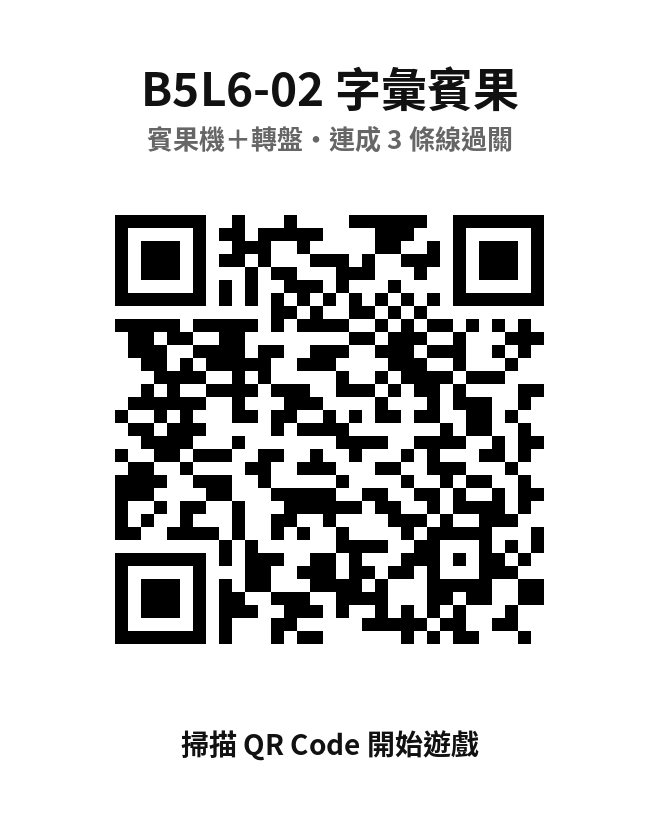
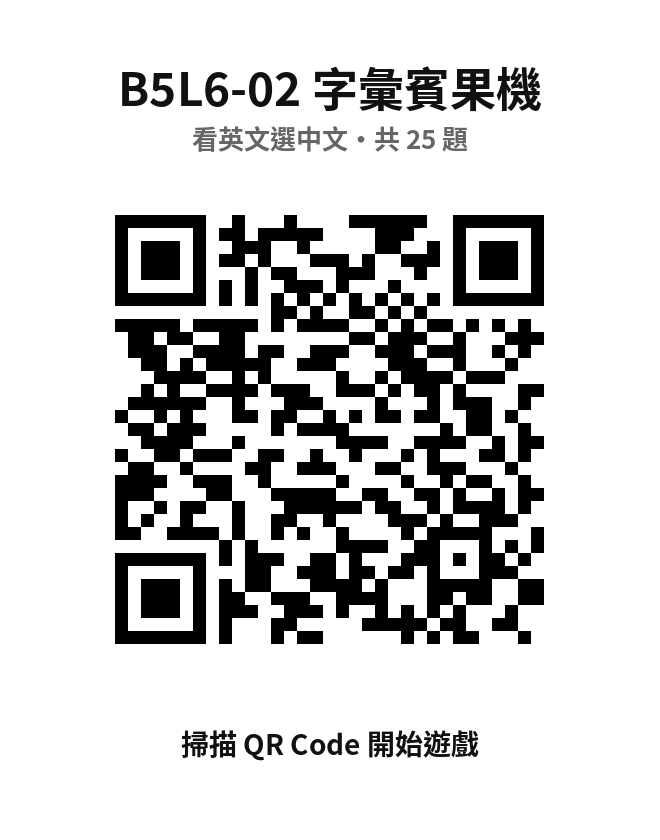
B5L6-02：簡化為賓果機看英文選中文
Claude-Session: https://claude.ai/code/session_01XaaQhcpkzSXjExrTZhcb2g

Changed region(s): [[0.1818, 0.0619, 0.8182, 0.1857]]

diff --git a/B5/L6-02/index.html b/B5/L6-02/index.html
@@ -3,87 +3,61 @@
 <head>
 <meta charset="utf-8">
 <meta name="viewport" content="width=device-width,initial-scale=1,viewport-fit=cover">
-<title>B5L6-02 字彙賓果</title>
+<title>B5L6-02 字彙賓果機</title>
 <link href="https://fonts.googleapis.com/css2?family=Baloo+2:wght@600;800&family=Noto+Sans+TC:wght@500;700;900&display=swap" rel="stylesheet">
 <style>
-/* VOICE: 手機上的快節奏小遊戲，給程度較弱的高三生，答對有成就感
-   IDEA: 夜市轉盤＋賓果卡——題目出現，轉盤轉一圈停下，點答案，答對就在卡上蓋章
-   PICTURE: 四色圓轉盤佔畫面下半，賓果卡在答題後滑上來蓋章
-   COLOUR and TYPE: 米白底、深色字；轉盤藍橘綠紅四色；Baloo 2 英文、Noto Sans TC 中文
-   LAYOUT: 上方狀態列，題目卡，轉盤；答完後底部滑出賓果卡 */
-:root{color-scheme:light;--bg:#F5F3F0;--card:#fff;--ink:#221C26;--mute:#6B6570;--line:#E3DEE0;
---q1:#2B6FE8;--q2:#F07B12;--q3:#1C9A5A;--q4:#D93A6A;--ok:#1C9A5A;--no:#D7191C;--stamp:#D7191C}
+/* VOICE: 給程度較弱、容易不耐煩的高三生：一個畫面、一個動作、馬上知道對錯
+   IDEA: 許老師的賓果機——捲軸轉動後停在一個字上，就考這個字
+   PICTURE: 上半部是大大的賓果機捲軸，下半部是四個大按鈕
+   COLOUR and TYPE: 米白底、深色機台、橘色重點；Baloo 2 英文、Noto Sans TC 中文
+   LAYOUT: 狀態列、賓果機、四個選項，全部在手機一個畫面內 */
+:root{--bg:#F5F3F0;--card:#fff;--ink:#221C26;--mute:#6B6570;--line:#E3DEE0;--hot:#F07B12;--ok:#1C7FE0;--no:#D7191C}
 *{box-sizing:border-box;min-width:0;-webkit-tap-highlight-color:transparent}
-html,body{margin:0;height:100%}
-body{background:var(--bg);color:var(--ink);font:16px/1.5 "Noto Sans TC","Baloo 2",system-ui,sans-serif;overflow-x:hidden;padding:env(safe-area-inset-top) 0 env(safe-area-inset-bottom)}
+html,body{margin:0}
+body{background:var(--bg);color:var(--ink);font:16px/1.5 "Noto Sans TC","Baloo 2",system-ui,sans-serif;padding:env(safe-area-inset-top) 0 env(safe-area-inset-bottom)}
 button{font:inherit;color:inherit;border:0;background:none;cursor:pointer}
-button:focus-visible{outline:3px solid var(--q1);outline-offset:2px}
-.app{max-width:520px;margin:0 auto;min-height:100dvh;display:flex;flex-direction:column;padding:10px 14px 14px}
+button:focus-visible{outline:3px solid var(--ok);outline-offset:2px}
+.app{max-width:520px;margin:0 auto;min-height:100dvh;display:flex;flex-direction:column;padding:10px 14px 16px}
 .top{display:flex;align-items:center;gap:8px}
 .top h1{margin:0;font:900 17px/1.2 "Noto Sans TC",sans-serif;margin-inline-end:auto}
 .top h1 small{display:block;font:500 11px "Noto Sans TC",sans-serif;color:var(--mute)}
-.pill{font:800 15px "Noto Sans TC",sans-serif;background:var(--ink);color:#fff;border-radius:999px;padding:6px 12px;white-space:nowrap}
-.cardbtn{white-space:nowrap;min-height:40px;padding:0 12px;border-radius:999px;border:2px solid var(--line);background:var(--card);font:700 14px "Noto Sans TC",sans-serif}
-.reel{position:relative;margin-top:10px;height:84px;border-radius:18px;background:var(--ink);padding:8px;box-shadow:0 4px 0 #000}
-.reel .win{position:relative;height:100%;border-radius:12px;background:#FFF8E6;overflow:hidden}
-.reel .win::before,.reel .win::after{content:"";position:absolute;left:0;right:0;height:16px;z-index:2;pointer-events:none}
-.reel .win::before{top:0;background:linear-gradient(#0005,transparent)}.reel .win::after{bottom:0;background:linear-gradient(transparent,#0005)}
+.pill{font:800 15px "Noto Sans TC",sans-serif;background:var(--card);border:2px solid var(--line);border-radius:999px;padding:4px 12px;white-space:nowrap}
+.combo{background:var(--hot);border-color:var(--hot);color:#fff}
+.bar{height:8px;border-radius:4px;background:var(--line);margin-top:10px;overflow:hidden}
+.bar i{display:block;height:100%;background:var(--hot);width:0;transition:width .3s}
+/* 賓果機 */
+.machine{margin-top:12px;background:var(--ink);border-radius:26px;padding:14px 14px 12px;box-shadow:0 6px 0 #000}
+.machine .label{display:flex;justify-content:space-between;color:#fff;font:800 14px "Noto Sans TC",sans-serif;margin:0 4px 8px}
+.machine .label b{color:var(--hot)}
+.win{position:relative;height:clamp(110px,22vh,150px);border-radius:16px;background:#FFF8E6;overflow:hidden}
+.win::before,.win::after{content:"";position:absolute;left:0;right:0;height:26px;z-index:2;pointer-events:none}
+.win::before{top:0;background:linear-gradient(#0006,transparent)}.win::after{bottom:0;background:linear-gradient(transparent,#0006)}
 .strip{position:absolute;left:0;right:0;top:0}
-.strip div{height:68px;display:grid;place-items:center;padding:0 10px;text-align:center;font:900 clamp(22px,7vw,30px)/1.1 "Noto Sans TC",sans-serif;color:var(--ink)}
-.reel .tag{position:absolute;left:14px;top:-9px;z-index:3;background:var(--q2);color:#fff;font:800 12px "Noto Sans TC",sans-serif;border-radius:999px;padding:1px 10px}
-.reel .arrow{position:absolute;top:50%;width:0;height:0;border:10px solid transparent;transform:translateY(-50%);z-index:3}
-.reel .al{left:-2px;border-left-color:var(--q2)}.reel .ar{right:-2px;border-right-color:var(--q2)}
-.q{margin-top:8px;background:var(--card);border-radius:16px;padding:10px 14px;box-shadow:0 3px 0 var(--line);display:flex;flex-direction:column;justify-content:center}
-.q .kind{font:700 13px "Noto Sans TC",sans-serif;color:var(--q1)}
-.q .text{margin:4px 0 0;font:800 clamp(18px,5vw,22px)/1.35 "Baloo 2","Noto Sans TC",sans-serif}
-.q .text.zhq{font:900 clamp(26px,8vw,34px)/1.2 "Noto Sans TC",sans-serif}
-.gap{display:inline-block;min-width:3em;border-bottom:4px solid var(--q2);color:var(--q2)}
-.wheelwrap{flex:1;display:grid;place-items:center;padding:12px 0 4px}
-.wheel{position:relative;width:min(92vw,calc(100dvh - 300px),420px);aspect-ratio:1}
-.spin{position:absolute;inset:0}
-.spin.go{animation:spin .8s cubic-bezier(.2,.8,.25,1)}
-@keyframes spin{from{transform:rotate(-540deg)}to{transform:rotate(0)}}
-.spin svg{width:100%;height:100%;display:block;filter:drop-shadow(0 6px 0 rgba(0,0,0,.12))}
-.seg{hyphens:none;word-break:keep-all;position:absolute;width:50%;height:50%;display:flex;align-items:center;justify-content:center;padding:14% 8% 14% 8%;text-align:center;color:#fff;font:800 clamp(14px,4.3vw,19px)/1.15 "Baloo 2","Noto Sans TC",sans-serif;overflow-wrap:break-word}
-.seg span{display:block;max-width:100%}
-.seg b{display:block;font:800 12px "Baloo 2",sans-serif;opacity:.85;margin-bottom:2px}
-.s0{left:0;top:0;padding-left:16%;padding-top:20%}.s1{right:0;top:0;padding-right:16%;padding-top:20%}
-.s2{left:0;bottom:0;padding-left:16%;padding-bottom:20%}.s3{right:0;bottom:0;padding-right:16%;padding-bottom:20%}
-.hit{position:absolute;inset:0;border-radius:50%;overflow:hidden}
-.hit button{position:absolute;width:50%;height:50%}
-.hit .h0{left:0;top:0}.hit .h1{right:0;top:0}.hit .h2{left:0;bottom:0}.hit .h3{right:0;bottom:0}
-.hub{position:absolute;left:50%;top:50%;width:24%;aspect-ratio:1;transform:translate(-50%,-50%);border-radius:50%;background:var(--card);border:5px solid var(--ink);display:grid;place-items:center;font:800 clamp(18px,5vw,24px) "Baloo 2",sans-serif;pointer-events:none}
-.mark{position:absolute;font:900 54px/1 "Noto Sans TC",sans-serif;color:#fff;text-shadow:0 2px 0 rgba(0,0,0,.3);pointer-events:none}
-.dim{opacity:.35}
-/* 賓果卡抽屜 */
-.sheet{position:fixed;left:0;right:0;bottom:0;z-index:5;transform:translateY(105%);transition:transform .3s ease}
-.sheet.open{transform:none}
-.sheet .in{max-width:520px;margin:0 auto;background:var(--card);border-radius:24px 24px 0 0;box-shadow:0 -8px 30px rgba(0,0,0,.18);padding:12px 12px calc(14px + env(safe-area-inset-bottom))}
-.res{font:900 18px/1.35 "Noto Sans TC",sans-serif;margin:2px 4px 10px}
-.res.ok{color:var(--ok)}.res.no{color:var(--no)}
-.res small{display:block;font:500 14px "Noto Sans TC",sans-serif;color:var(--mute)}
-.board{display:grid;grid-template-columns:repeat(5,minmax(0,1fr));gap:4px}
-.cell{position:relative;aspect-ratio:1;border-radius:10px;background:var(--bg);border:2px solid var(--line);display:grid;place-items:center;padding:2px;text-align:center;font:800 clamp(9px,2.8vw,13px)/1.1 "Baloo 2",sans-serif;overflow-wrap:break-word;overflow:hidden}
-.cell.ph{font-size:clamp(8px,2.4vw,11px)}
-.cell span{position:relative;z-index:1}
-.cell.long{font-size:clamp(8px,2.3vw,11px)}
-.cell.on{color:#8A0F12;background:#FDE2E2;border-color:var(--stamp)}
-.cell.on::after{content:"✓";position:absolute;right:3px;top:1px;font:900 13px/1 "Noto Sans TC",sans-serif;color:var(--stamp)}
-.cell.new::after{animation:stamp .45s cubic-bezier(.3,1.6,.5,1)}
-@keyframes stamp{from{transform:scale(2.2) rotate(-20deg);opacity:0}}
-.cell.line{background:#FFF1C2;border-color:#E9B93A}
-.close{display:block;margin:10px auto 0;min-height:44px;padding:0 20px;border-radius:22px;background:var(--ink);color:#fff;font:700 15px "Noto Sans TC",sans-serif}
-.bingo{position:fixed;inset:0;z-index:8;display:grid;place-items:center;pointer-events:none}
-.bingo p{margin:0;font:800 clamp(56px,18vw,96px)/1 "Baloo 2",sans-serif;color:var(--q2);text-shadow:0 5px 0 var(--ink);animation:pop 1.1s ease both}
-@keyframes pop{0%{transform:scale(.3);opacity:0}25%{transform:scale(1.15);opacity:1}80%{opacity:1}100%{transform:scale(1);opacity:0}}
-/* 開始與結果 */
-.start{position:fixed;inset:0;z-index:9;background:rgba(245,243,240,.96);display:grid;place-items:center;padding:24px;text-align:center}
-.start h2{margin:0;font:900 clamp(30px,9vw,42px)/1.15 "Noto Sans TC",sans-serif}
-.start p{margin:10px 0 0;font:500 16px/1.6 "Noto Sans TC",sans-serif;color:var(--mute)}
-.start button{margin-top:22px;min-height:60px;padding:0 36px;border-radius:30px;background:var(--q2);color:#fff;font:900 22px "Noto Sans TC",sans-serif;box-shadow:0 5px 0 #B65A08}
+.strip div{display:grid;place-items:center;padding:0 12px;text-align:center;font:800 clamp(34px,11vw,52px)/1.05 "Baloo 2",sans-serif;color:var(--ink)}
+.strip div.ph{font-size:clamp(26px,8vw,40px)}
+.machine .hint{margin:8px 4px 0;color:#D9D2DC;font:700 14px "Noto Sans TC",sans-serif;text-align:center;min-height:21px}
+/* 選項 */
+.opts{display:grid;grid-template-columns:repeat(2,minmax(0,1fr));gap:10px;margin-top:12px}
+.opt{position:relative;min-height:clamp(70px,12vh,96px);border-radius:18px;background:var(--card);border:3px solid var(--line);padding:8px 10px;font:900 clamp(19px,5.6vw,24px)/1.25 "Noto Sans TC",sans-serif;text-align:center;box-shadow:0 4px 0 var(--line)}
+.opt{opacity:0;transform:translateY(10px);transition:opacity .2s,transform .2s}
+.opt.in{opacity:1;transform:none}
+.opt:active{transform:translateY(2px);box-shadow:0 2px 0 var(--line)}
+.opt:disabled{cursor:default}
+.opt.ok{border-color:var(--ok);background:#E3EEFF;color:#0D4FA8}
+.opt.no{border-color:var(--no);background:#FFE4E4;color:#9B1C1F}
+.opt.in.fade{opacity:.35}
+.opt .m{position:absolute;right:8px;top:4px;font:900 22px/1 "Noto Sans TC",sans-serif}
+.fb{margin:12px 2px 0;min-height:48px;font:800 17px/1.45 "Noto Sans TC",sans-serif;text-align:center}
+.fb.ok{color:var(--ok)}.fb.no{color:var(--no)}
+.fb small{display:block;font:500 14px "Noto Sans TC",sans-serif;color:var(--mute)}
+/* 開始與證書 */
+.start{position:fixed;inset:0;z-index:9;background:rgba(245,243,240,.97);display:grid;place-items:center;padding:24px;text-align:center}
+.start h2{margin:0;font:900 clamp(32px,10vw,44px)/1.15 "Noto Sans TC",sans-serif}
+.start p{margin:12px 0 0;font:500 17px/1.7 "Noto Sans TC",sans-serif;color:var(--mute)}
+.start button{margin-top:24px;min-height:64px;padding:0 40px;border-radius:32px;background:var(--hot);color:#fff;font:900 24px "Noto Sans TC",sans-serif;box-shadow:0 5px 0 #B65A08}
 .result{display:none;padding-top:10px}
 .result h2{margin:0 0 10px;font:900 28px "Noto Sans TC",sans-serif}
-.cert{background:#fff;border:3px solid #B8860B;outline:1px solid #B8860B;outline-offset:-9px;border-radius:6px;padding:22px 16px 18px;text-align:center;font-family:"Noto Sans TC",serif}
+.cert{background:#fff;border:3px solid #B8860B;outline:1px solid #B8860B;outline-offset:-9px;border-radius:6px;padding:22px 16px 18px;text-align:center}
 .cert .ct{margin:0;font:900 30px/1.2 "Noto Sans TC",sans-serif;color:#8A6200;letter-spacing:.08em}
 .cert .ce{margin:2px 0 12px;font:700 13px "Baloo 2",sans-serif;color:#8A6200}
 .cert .cb{margin:0;font:700 16px/2 "Noto Sans TC",sans-serif}
@@ -102,123 +76,84 @@ button:focus-visible{outline:3px solid var(--q1);outline-offset:2px}
 </style>
 </head>
 <body>
-<div class="app" id="app">
+<div class="app">
   <header class="top">
-    <h1>字彙賓果<small>B5L6-02｜第五冊 Lesson 6</small></h1>
-    <span class="pill" id="lines">BINGO 0/3</span>
-    <button class="cardbtn" id="showcard">賓果卡</button>
+    <h1>字彙賓果機<small>B5L6-02｜第五冊 Lesson 6</small></h1>
+    <span class="pill" id="count">1 / 25</span>
+    <span class="pill combo" id="combo" hidden></span>
   </header>
+  <div class="bar"><i id="prog"></i></div>
   <main id="play">
-    <div class="reel"><span class="tag">賓果機</span><span class="arrow al"></span><span class="arrow ar"></span><div class="win"><div class="strip" id="strip"></div></div></div>
-    <section class="q" aria-live="polite"><span class="kind" id="kind"></span><p class="text" id="qtext" hidden></p></section>
-    <div class="wheelwrap">
-      <div class="wheel" id="wheel">
-        <div class="spin" id="spin">
-          <svg viewBox="0 0 200 200" aria-hidden="true">
-            <path d="M100 100V2A98 98 0 0 0 2 100Z" fill="var(--q1)"/>
-            <path d="M100 100V2A98 98 0 0 1 198 100Z" fill="var(--q2)"/>
-            <path d="M100 100H2A98 98 0 0 0 100 198Z" fill="var(--q3)"/>
-            <path d="M100 100H198A98 98 0 0 1 100 198Z" fill="var(--q4)"/>
-            <circle cx="100" cy="100" r="98" fill="none" stroke="#221C26" stroke-width="4"/>
-            <path d="M100 2V198M2 100H198" stroke="#fff" stroke-width="3"/>
-          </svg>
-          <div class="seg s0" id="o0"></div><div class="seg s1" id="o1"></div><div class="seg s2" id="o2"></div><div class="seg s3" id="o3"></div>
-        </div>
-        <div class="hit"><button class="h0" data-k="0" aria-label="選項 A"></button><button class="h1" data-k="1" aria-label="選項 B"></button><button class="h2" data-k="2" aria-label="選項 C"></button><button class="h3" data-k="3" aria-label="選項 D"></button></div>
-        <div class="hub" id="hub">1</div>
-      </div>
-    </div>
+    <section class="machine">
+      <p class="label"><span>賓果機</span><b id="score">0 分</b></p>
+      <div class="win" id="win"><div class="strip" id="strip"></div></div>
+      <p class="hint" id="hint">轉動中⋯⋯</p>
+    </section>
+    <div class="opts" id="opts"></div>
+    <p class="fb" id="fb" aria-live="polite"></p>
   </main>
   <section class="result" id="result"></section>
 </div>
-
-<div class="sheet" id="sheet"><div class="in"><p class="res" id="res"></p><div class="board" id="board"></div><button class="close" id="close" hidden>回到題目</button></div></div>
-<div class="bingo" id="bingo" hidden><p>BINGO!</p></div>
-<div class="start" id="start"><div><h2>字彙賓果</h2><p>賓果機轉出中文意思，點轉盤上的英文答案<br>答對就在賓果卡蓋章，連成 <b>3 條線</b>就過關！<br>每題 10 秒</p><button id="go">開始遊戲 ▶</button></div></div>
+<div class="start" id="start"><div><h2>字彙賓果機</h2><p>賓果機停在一個英文字<br>四個中文依序出現，點出正確的意思<br>共 25 題，每題 10 秒<br>連續答對有加分！</p><button id="go">開始 ▶</button></div></div>
 
 <script>
 {
 const ITEMS=[{"w": "tourist", "zh": "觀光客", "ph": false, "p": "Many ___ visit Kenting to enjoy the sunshine and the beautiful sea.", "z": "很多觀光客造訪墾丁享受陽光和美麗的海洋。", "a": "tourists", "o": ["tourists", "burdens", "properties", "measures"]}, {"w": "flock", "zh": "聚集", "ph": false, "p": "People ___ to department stores on Black Friday to get all their Christmas shopping done.", "z": "人們在黑色星期五聚集到百貨公司裡為聖誕節大採購。", "a": "flock", "o": ["flock", "litter", "disturb", "attempt"]}, {"w": "annual", "zh": "每年的", "ph": false, "p": "The company’s ___ Christmas party is held in early December.", "z": "這家公司每年的聖誕節派對在十二月初舉行。", "a": "annual", "o": ["annual", "financial", "practical", "detailed"]}, {"w": "benefit", "zh": "得利於；好處", "ph": false, "p": "Small businesses often ___ from using social media to reach new customers.", "z": "小企業常常得利於利用社群媒體接觸新客戶。", "a": "benefit", "o": ["benefit", "disturb", "litter", "measure"]}, {"w": "expansion", "zh": "擴張", "ph": false, "p": "The ___ of large supermarket chains is threatening small local grocery stores.", "z": "大型連鎖超市的擴張正在威脅著小型的地方雜貨店。", "a": "expansion", "o": ["expansion", "tourist", "resident", "property"]}, {"w": "burden", "zh": "負擔", "ph": false, "p": "Raising four children can be a heavy ___, but Mr. and Mrs. Wu enjoy it.", "z": "養育四個孩子是個沉重的負擔，但是吳先生和吳太太樂於承擔。", "a": "burden", "o": ["burden", "resident", "tourist", "detail"]}, {"w": "resident", "zh": "居民", "ph": false, "p": "This small country village has no more than 200 ___.", "z": "這個小小的鄉間村落有不超過200位居民。", "a": "residents", "o": ["residents", "burdens", "measures", "details"]}, {"w": "litter", "zh": "亂丟（垃圾）", "ph": false, "p": "Many people in this town ___ on the street, so the whole town looks ugly.", "z": "這個城鎮很多人在街上亂丟垃圾，所以整個城鎮看起來很醜。", "a": "litter", "o": ["litter", "rent", "expand", "disturb"]}, {"w": "furthermore", "zh": "此外", "ph": false, "p": "Customers love this restaurant because the food is great. ___, they enjoy the good service.", "z": "顧客們因為食物很棒而喜愛這家餐廳。此外，他們也享受良好的服務。", "a": "Furthermore", "o": ["Furthermore", "Elsewhere", "Annual", "Practical"]}, {"w": "rented", "zh": "租借的", "ph": false, "p": "David’s ___ room is tiny, but it is all he can afford now.", "z": "David租的房間非常小，但他現在只負擔得起這個房間。", "a": "rented", "o": ["rented", "financial", "annual", "detailed"]}, {"w": "property", "zh": "房產", "ph": false, "p": "Alice is seeking an opportunity to own a ___ abroad.", "z": "Alice正在尋找擁有海外房產的機會。", "a": "property", "o": ["property", "burden", "measure", "resident"]}, {"w": "elsewhere", "zh": "在別處", "ph": false, "p": "You won’t find this item ___. It’s for sale only on our flights to Asia.", "z": "你不會在其他地方找到這個商品。它只在我們飛往亞洲的班機上販售。", "a": "elsewhere", "o": ["elsewhere", "furthermore", "annual", "financial"]}, {"w": "practical", "zh": "切實可行的", "ph": false, "p": "It would not be ___ to ask only one person to finish all these jobs in just a week.", "z": "要求只有一個人在僅僅一週內就要完成所有這些工作，是不切實際的。", "a": "practical", "o": ["practical", "annual", "financial", "detailed"]}, {"w": "measure", "zh": "措施；測量", "ph": false, "p": "Mark is taking ___ to improve his health by changing his diet.", "z": "Mark藉由改變他的飲食採取措施來改善他的健康。", "a": "measures", "o": ["measures", "residents", "properties", "burdens"]}, {"w": "impact", "zh": "衝擊；巨大影響", "ph": false, "p": "Extreme weather, such as heat waves, is having an ___ on people’s lives.", "z": "極端的天氣現象，像是熱浪，正在對人們的生活造成巨大的影響。", "a": "impact", "o": ["impact", "expansion", "attempt", "resident"]}, {"w": "detailed", "zh": "詳細的", "ph": false, "p": "With your ___ description, I believe the airline workers will find your luggage soon.", "z": "有了你詳細的描述，我相信航空公司的工作人員很快就會找到你的行李。", "a": "detailed", "o": ["detailed", "annual", "financial", "rented"]}, {"w": "financial", "zh": "財務的", "ph": false, "p": "Frank does not want to ask for ___ support from his father.", "z": "Frank不想要向他的父親尋求財務支援。", "a": "financial", "o": ["financial", "annual", "rented", "elsewhere"]}, {"w": "disturb", "zh": "打擾", "ph": false, "p": "The noise from next door ___ my sleep last night.", "z": "隔壁傳來的噪音打擾了我昨晚的睡眠。", "a": "disturbed", "o": ["disturbed", "benefited", "measured", "rented"]}, {"w": "attempt", "zh": "試圖", "ph": false, "p": "Little Frank ___ to reach the chocolate in the cupboard by standing on a chair.", "z": "小Frank藉由站在一張椅子上試圖拿到櫥櫃裡的巧克力。", "a": "attempted", "o": ["attempted", "littered", "disturbed", "measured"]}, {"w": "have sth. on one's hands", "zh": "有⋯⋯問題要處理", "ph": true, "p": "Sarah has a problem ___. She lost the necklace her friend lent her.", "z": "Sarah有一個問題要處理。她弄丟了她的朋友借給她的項鍊。", "a": "on her hands", "o": ["on her hands", "at once", "in detail", "elsewhere"]}, {"w": "be fed up with", "zh": "受夠了⋯⋯", "ph": true, "p": "I am really ___ the constant news about the election. Let’s watch a movie instead.", "z": "我真的受夠了不間斷的選舉新聞。讓我們改看一部電影吧。", "a": "fed up with", "o": ["fed up with", "kicked out of", "benefited from", "attempting"]}, {"w": "kick sb. out", "zh": "驅逐某人", "ph": true, "p": "The coach ___ the soccer player out of the team because he used drugs.", "z": "教練把那名足球員逐出球隊，因為他使用毒品。", "a": "kicked", "o": ["kicked", "struck", "disturbed", "benefited"]}, {"w": "be sick of", "zh": "厭惡", "ph": true, "p": "Tom was ___ losing to his friends at tennis, so he decided to train harder.", "z": "Tom厭惡打網球輸給他的朋友們，所以他決定更加認真訓練。", "a": "sick of", "o": ["sick of", "kicked out of", "benefited from", "attempting"]}, {"w": "at once", "zh": "同時；立刻", "ph": true, "p": "When the bell rings, you must put down your pencil ___.", "z": "當鐘聲響起時，你必須立刻放下你的鉛筆。", "a": "at once", "o": ["at once", "furthermore", "annual", "practical"]}, {"w": "strike a balance", "zh": "取得平衡", "ph": true, "p": "Selina manages to ___ between family and work. She is a good model of a successful woman.", "z": "Selina能設法在家庭和工作之間取得平衡。她是成功女性的良好典範。", "a": "strike a balance", "o": ["strike a balance", "kick them out", "take measures", "attempting"]}];
-const GOAL=3,LIMIT=10,NEXT=2200;
+const LIMIT=10,NEXT=2000;
 const $=id=>document.getElementById(id);
 const esc=s=>String(s).replace(/[&<>"']/g,c=>({'&':'&amp;','<':'&lt;','>':'&gt;','"':'&quot;',"'":'&#39;'}[c]));
 const shuf=a=>{a=a.slice();for(let i=a.length-1;i>0;i--){const j=Math.random()*(i+1)|0;[a[i],a[j]]=[a[j],a[i]]}return a};
-const LINES=[];for(let i=0;i<5;i++){LINES.push([0,1,2,3,4].map(j=>i*5+j));LINES.push([0,1,2,3,4].map(j=>j*5+i))}LINES.push([0,6,12,18,24],[4,8,12,16,20]);
-let S;
-function reset(){S={board:shuf(ITEMS.map((_,i)=>i)),on:new Set(),queue:shuf(ITEMS.map((_,i)=>i)),n:0,ok:0,time:0,wrong:{},done:false,cur:null,lines:0,lineSet:new Set()};drawBoard();$('lines').textContent=`BINGO 0/${GOAL}`}
-function drawBoard(newIdx){
-  $('board').innerHTML=S.board.map((it,pos)=>{const x=ITEMS[it];return `<div class="cell${x.ph?' ph':''}${!x.ph&&x.w.length>9?' long':''}${S.on.has(it)?' on':''}${it===newIdx?' new':''}${S.lineSet.has(pos)?' line':''}"><span>${esc(x.w)}</span></div>`}).join('');
-}
-let t0=0,timer=null,locked=false;
-let spinning=false;
+let S,timer=null,t0=0,locked=true;
+function reset(){S={order:shuf(ITEMS.map((_,i)=>i)),i:0,ok:0,score:0,combo:0,best:0,time:0,wrong:[]};}
 function ask(){
-  if(S.done)return;
-  const it=S.queue.shift();S.cur=it;S.n++;locked=true;spinning=true;
-  const x=ITEMS[it],type=Math.random()<.5?'zh':'sent';
-  // 賓果機捲軸：快速轉過其他中文意思，停在這一題
-  const pool=shuf(ITEMS.filter(y=>y!==x)).slice(0,14).map(y=>y.zh);
-  const seq=[...pool,x.zh];const strip=$('strip');const H=68;
-  strip.innerHTML=seq.map(s=>`<div>${esc(s)}</div>`).join('');
+  const x=ITEMS[S.order[S.i]];locked=true;
+  $('count').textContent=`${S.i+1} / ${ITEMS.length}`;$('prog').style.width=(S.i/ITEMS.length*100)+'%';
+  $('fb').className='fb';$('fb').innerHTML='';$('hint').textContent='轉動中⋯⋯';
+  // 賓果機：捲過其他字，停在這一題
+  const H=$('win').clientHeight,seq=[...shuf(ITEMS.filter(y=>y!==x)).slice(0,12),x];
+  const strip=$('strip');strip.innerHTML=seq.map(y=>`<div class="${y.ph?'ph':''}" style="height:${H}px">${esc(y.w)}</div>`).join('');
   strip.style.transition='none';strip.style.transform='translateY(0)';void strip.offsetWidth;
-  strip.style.transition='transform 1.3s cubic-bezier(.15,.75,.25,1)';strip.style.transform=`translateY(-${(seq.length-1)*H}px)`;
-  $('kind').textContent='賓果機轉動中⋯⋯';$('qtext').hidden=true;
-  ['o0','o1','o2','o3'].forEach(id=>{$(id).innerHTML='';$(id).classList.remove('dim')});
-  document.querySelectorAll('.mark').forEach(m=>m.remove());$('hub').textContent=S.n;
-  let opts,ans;
-  if(type==='zh'){ans=x.w;opts=shuf([x.w,...shuf(ITEMS.filter(y=>y!==x&&y.ph===x.ph)).slice(0,3).map(y=>y.w)])}
-  else{ans=x.a;opts=shuf(x.o.slice())}
-  S.ans=ans;S.opts=opts;
-  setTimeout(()=>{
-    spinning=false;
-    if(type==='zh'){$('kind').textContent='轉盤上哪一個是這個意思？';$('qtext').hidden=true}
-    else{$('kind').textContent='課本例句：選出填入空格的答案';$('qtext').className='text';$('qtext').innerHTML=esc(x.p).replace('___','<span class="gap">　</span>');$('qtext').hidden=false}
-    opts.forEach((o,k)=>{$('o'+k).innerHTML=`<span><b>${'ABCD'[k]}</b>${esc(o)}</span>`});
-    const sp=$('spin');sp.classList.remove('go');void sp.offsetWidth;sp.classList.add('go');
-    setTimeout(()=>{locked=false;t0=performance.now();clearTimeout(timer);timer=setTimeout(()=>answer(-1),LIMIT*1000)},500);
-  },1350);
+  strip.style.transition='transform 1s cubic-bezier(.15,.75,.25,1)';strip.style.transform=`translateY(-${(seq.length-1)*H}px)`;
+  const opts=shuf([x,...shuf(ITEMS.filter(y=>y!==x&&y.ph===x.ph)).slice(0,3)]);S.opts=opts;S.x=x;
+  $('opts').innerHTML=opts.map((y,k)=>`<button class="opt" data-k="${k}" disabled>${esc(y.zh)}</button>`).join('');
+  setTimeout(()=>{$('hint').textContent='選出它的中文意思';const bs=[...document.querySelectorAll('.opt')];
+    bs.forEach((b,k)=>setTimeout(()=>b.classList.add('in'),k*250));
+    setTimeout(()=>{bs.forEach(b=>b.disabled=false);locked=false;t0=performance.now();clearTimeout(timer);timer=setTimeout(()=>answer(-1),LIMIT*1000)},4*250)},1050);
 }
-function mark(k,ok){const m=document.createElement('div');m.className='mark';m.textContent=ok?'✓':'✗';
-  const pos=[[25,25],[75,25],[25,75],[75,75]][k];m.style.left=`calc(${pos[0]}% - 18px)`;m.style.top=`calc(${pos[1]}% - 30px)`;$('wheel').appendChild(m)}
 function answer(k){
-  if((locked&&k!==-1)||S.done||spinning)return;locked=true;clearTimeout(timer);
+  if(locked)return;locked=true;clearTimeout(timer);
   const dt=Math.min(LIMIT,(performance.now()-t0)/1000);S.time+=dt;
-  const right=S.opts.indexOf(S.ans),ok=k===right,x=ITEMS[S.cur];
-  S.opts.forEach((_,i)=>{if(i!==right&&i!==k)$('o'+i).classList.add('dim')});
-  if(k>=0)mark(k,ok);if(!ok)mark(right,true);
-  let res;
-  if(ok){S.ok++;S.on.add(S.cur);sfx(true);res=`<p class="res ok">✓ 答對！${esc(x.w)}　${esc(x.zh)}<small>蓋章！</small></p>`}
-  else{S.wrong[x.w]=(S.wrong[x.w]||0)+1;S.queue.push(S.cur);sfx(false);res=`<p class="res no">${k<0?'⏰ 時間到！':'✗ 答錯了！'}正確答案是 ${esc(S.ans)}<small>${esc(x.w)}＝${esc(x.zh)}（等一下會再出現）</small></p>`}
-  $('res').outerHTML=res.replace('<p class="res','<p id="res" class="res');
-  const before=S.lines;checkLines();drawBoard(ok?S.cur:null);
-  $('close').hidden=true;$('sheet').classList.add('open');
-  if(S.lines>before){const b=$('bingo');b.hidden=false;b.firstElementChild.style.animation='none';void b.offsetWidth;b.firstElementChild.style.animation='';setTimeout(()=>b.hidden=true,1100)}
-  $('lines').textContent=`BINGO ${Math.min(S.lines,GOAL)}/${GOAL}`;
-  setTimeout(()=>{$('sheet').classList.remove('open');if(S.lines>=GOAL){finish()}else ask()},S.lines>before?NEXT+600:NEXT);
+  const x=S.x,right=S.opts.indexOf(x),ok=k===right;
+  document.querySelectorAll('.opt').forEach((b,i)=>{b.disabled=true;if(i===right){b.classList.add('ok');b.insertAdjacentHTML('beforeend','<span class="m">✓</span>')}else if(i===k){b.classList.add('no');b.insertAdjacentHTML('beforeend','<span class="m">✗</span>')}else b.classList.add('fade')});
+  if(ok){S.ok++;S.combo++;S.best=Math.max(S.best,S.combo);const pts=S.combo>=3?2:1;S.score+=pts;sfx(true);
+    $('fb').className='fb ok';$('fb').innerHTML=`✓ 答對！${esc(x.w)} ＝ ${esc(x.zh)}${pts>1?`<small>連續答對 ${S.combo} 題，+2 分！</small>`:''}`}
+  else{S.combo=0;S.wrong.push(x.w);sfx(false);
+    $('fb').className='fb no';$('fb').innerHTML=`${k<0?'⏰ 時間到！':'✗ 答錯了！'}${esc(x.w)} ＝ ${esc(x.zh)}`}
+  $('score').textContent=`${S.score} 分`;
+  const c=$('combo');c.hidden=S.combo<2;c.textContent=`連對 ×${S.combo}`;
+  setTimeout(()=>{S.i++;if(S.i>=ITEMS.length)finish();else ask()},NEXT);
 }
-function checkLines(){let c=0;S.lineSet=new Set();LINES.forEach(L=>{if(L.every(p=>S.on.has(S.board[p]))){c++;L.forEach(p=>S.lineSet.add(p))}});S.lines=c}
-let cname='',cno='';try{cname=localStorage.getItem('b5l6bname')||'';cno=localStorage.getItem('b5l6bno')||''}catch(e){}
+let cname='',cno='';try{cname=localStorage.getItem('b5l6sname')||'';cno=localStorage.getItem('b5l6sno')||''}catch(e){}
 function finish(){
-  S.done=true;clearTimeout(timer);$('sheet').classList.remove('open');$('play').hidden=true;$('showcard').hidden=true;
-  const acc=Math.round(S.ok/S.n*100),now=new Date(),p2=v=>String(v).padStart(2,'0');
+  $('play').hidden=true;$('prog').style.width='100%';
+  const n=ITEMS.length,now=new Date(),p2=v=>String(v).padStart(2,'0');
   const date=`${now.getFullYear()} 年 ${now.getMonth()+1} 月 ${now.getDate()} 日 ${p2(now.getHours())}:${p2(now.getMinutes())}`;
-  const wk=Object.keys(S.wrong);
   const r=$('result');r.style.display='block';
-  r.innerHTML=`<h2>BINGO 過關！</h2>
-  <div class="cert"><p class="ct">賓果過關證書</p><p class="ce">B5L6-02 Vocabulary Bingo</p>
-  <p class="cb">茲證明 <input id="cno" class="no" value="${esc(cno)}" placeholder="座號" inputmode="numeric" aria-label="座號"> 號 <input id="cname" value="${esc(cname)}" placeholder="姓名" aria-label="姓名"> 同學<br>完成第五冊 Lesson 6 字彙賓果</p>
-  <div class="stats"><div><b>${GOAL} 條</b><span>連線</span></div><div><b>${acc}%</b><span>正確率</span></div><div><b>${S.ok}/${S.n}</b><span>答對／作答題數</span></div><div><b>${S.time.toFixed(1)}</b><span>總答題秒數</span></div></div>
-  <p class="weak"><b>待加強：</b>${wk.length?wk.map(esc).join('、'):'全部答對，太厲害了！'}</p>
+  r.innerHTML=`<h2>完成！</h2>
+  <div class="cert"><p class="ct">完成證書</p><p class="ce">B5L6-02 Vocabulary Slot Machine</p>
+  <p class="cb">茲證明 <input id="cno" class="no" value="${esc(cno)}" placeholder="座號" inputmode="numeric" aria-label="座號"> 號 <input id="cname" value="${esc(cname)}" placeholder="姓名" aria-label="姓名"> 同學<br>完成第五冊 Lesson 6 字彙賓果機</p>
+  <div class="stats"><div><b>${S.ok}/${n}</b><span>答對題數</span></div><div><b>${S.score} 分</b><span>得分（含連對加分）</span></div><div><b>${S.best}</b><span>最多連續答對</span></div><div><b>${S.time.toFixed(1)}</b><span>總答題秒數</span></div></div>
+  <p class="weak"><b>待加強：</b>${S.wrong.length?S.wrong.map(esc).join('、'):'全部答對，太厲害了！'}</p>
   <p class="cd">遊戲編號 B5L6-02｜${date}</p></div>
   <p class="tip">輸入座號和姓名後，截圖這張證書，傳到英文課 LINE 群組。</p>
   <button class="again" id="again">再玩一次</button>`;
-  $('cno').oninput=e=>{cno=e.target.value;try{localStorage.setItem('b5l6bno',cno)}catch(x){}};
-  $('cname').oninput=e=>{cname=e.target.value;try{localStorage.setItem('b5l6bname',cname)}catch(x){}};
-  $('again').onclick=()=>{r.style.display='none';r.innerHTML='';$('play').hidden=false;$('showcard').hidden=false;reset();ask()};
+  $('cno').oninput=e=>{cno=e.target.value;try{localStorage.setItem('b5l6sno',cno)}catch(x){}};
+  $('cname').oninput=e=>{cname=e.target.value;try{localStorage.setItem('b5l6sname',cname)}catch(x){}};
+  $('again').onclick=()=>{r.style.display='none';r.innerHTML='';$('play').hidden=false;$('combo').hidden=true;$('score').textContent='0 分';reset();ask()};
   window.scrollTo(0,0);
 }
-// 音效：答對叮咚、答錯嗡
-function sfx(ok){if(!M.ctx)return;const c=M.ctx,t=c.currentTime,g=c.createGain();g.connect(c.destination);
-  const notes=ok?[784,1047]:[180,150];notes.forEach((f,i)=>{const o=c.createOscillator();o.type=ok?'triangle':'sawtooth';o.frequency.value=f;const gg=c.createGain();gg.gain.setValueAtTime(.0001,t+i*.1);gg.gain.exponentialRampToValueAtTime(ok?.35:.18,t+i*.1+.01);gg.gain.exponentialRampToValueAtTime(.0001,t+i*.1+.25);o.connect(gg);gg.connect(c.destination);o.start(t+i*.1);o.stop(t+i*.1+.3)})}
+function sfx(ok){if(!M.ctx)return;const c=M.ctx,t=c.currentTime;
+  (ok?[784,1047]:[180,150]).forEach((f,i)=>{const o=c.createOscillator();o.type=ok?'triangle':'sawtooth';o.frequency.value=f;const g=c.createGain();g.gain.setValueAtTime(.0001,t+i*.1);g.gain.exponentialRampToValueAtTime(ok?.35:.18,t+i*.1+.01);g.gain.exponentialRampToValueAtTime(.0001,t+i*.1+.25);o.connect(g);g.connect(c.destination);o.start(t+i*.1);o.stop(t+i*.1+.3)})}
 // 背景音樂：Web Audio 即時合成的搖滾電音（約 140 BPM，A 小調 Am–F–C–G）
 const M={ctx:null,on:true,timer:null,step:0,next:0,master:null,noise:null};
 function musInit(){if(M.ctx)return;const AC=window.AudioContext||window.webkitAudioContext;if(!AC)return;musBuild(new AC())}
@@ -243,9 +178,7 @@ function sched(){const c=M.ctx;while(M.next<c.currentTime+.12){const s=M.step%16
   M.step++;M.next+=S16}}
 function musStart(){musInit();if(!M.ctx)return;M.ctx.resume();if(M.timer)return;M.next=M.ctx.currentTime+.05;M.timer=setInterval(sched,25)}
 
-document.querySelectorAll('.hit button').forEach(b=>b.onclick=()=>answer(+b.dataset.k));
-$('showcard').onclick=()=>{if(spinning)return;$('res').textContent=`已蓋章 ${S.on.size} 格，連線 ${S.lines} 條`;$('res').className='res';$('close').hidden=false;drawBoard();$('sheet').classList.add('open')};
-$('close').onclick=()=>$('sheet').classList.remove('open');
+$('opts').onclick=e=>{const b=e.target.closest('.opt');if(b)answer(+b.dataset.k)};
 $('go').onclick=()=>{$('start').hidden=true;musStart();reset();ask()};
 }
 </script>

diff --git a/index.html b/index.html
@@ -33,7 +33,7 @@ const GAMES=[
   {book:"B5",lessons:[3,4],title:"L3–L4 重點複習挑戰（25 個重點，中英四選一）",path:"B5/L3-L4-review-quiz/"},
   {book:"B5",lessons:[5],title:"B5L5-01 字彙盲盒（情境猜單字＋課本例句，共三關）",path:"B5/L5-01/"},
   {book:"B5",lessons:[6],title:"B5L6-01 字彙盲盒（情境猜單字＋課本例句，共三關）",path:"B5/L6-01/"},
-  {book:"B5",lessons:[6],title:"B5L6-02 字彙賓果（賓果機＋轉盤，連成 3 條線過關）",path:"B5/L6-02/"}
+  {book:"B5",lessons:[6],title:"B5L6-02 字彙賓果機（看英文選中文，共 25 題）",path:"B5/L6-02/"}
 ];
 const BOOKS=[["B5","Book 5","高三上"],["B6","Book 6","高三下"]];
 const list=document.getElementById("list");

diff --git a/README.md b/README.md
@@ -13,4 +13,4 @@
 | B5 | L3–L4 | 重點複習挑戰（25 個重點，中英四選一） | https://changjenhsin0602.github.io/grade12-english/B5/L3-L4-review-quiz/ |
 | B5 | L5 | B5L5-01 字彙盲盒（情境猜單字＋課本例句，共三關） | https://changjenhsin0602.github.io/grade12-english/B5/L5-01/ |
 | B5 | L6 | B5L6-01 字彙盲盒（情境猜單字＋課本例句，共三關） | https://changjenhsin0602.github.io/grade12-english/B5/L6-01/ |
-| B5 | L6 | B5L6-02 字彙賓果（賓果機＋轉盤，連成 3 條線過關） | https://changjenhsin0602.github.io/grade12-english/B5/L6-02/ |
+| B5 | L6 | B5L6-02 字彙賓果機（看英文選中文，共 25 題） | https://changjenhsin0602.github.io/grade12-english/B5/L6-02/ |
